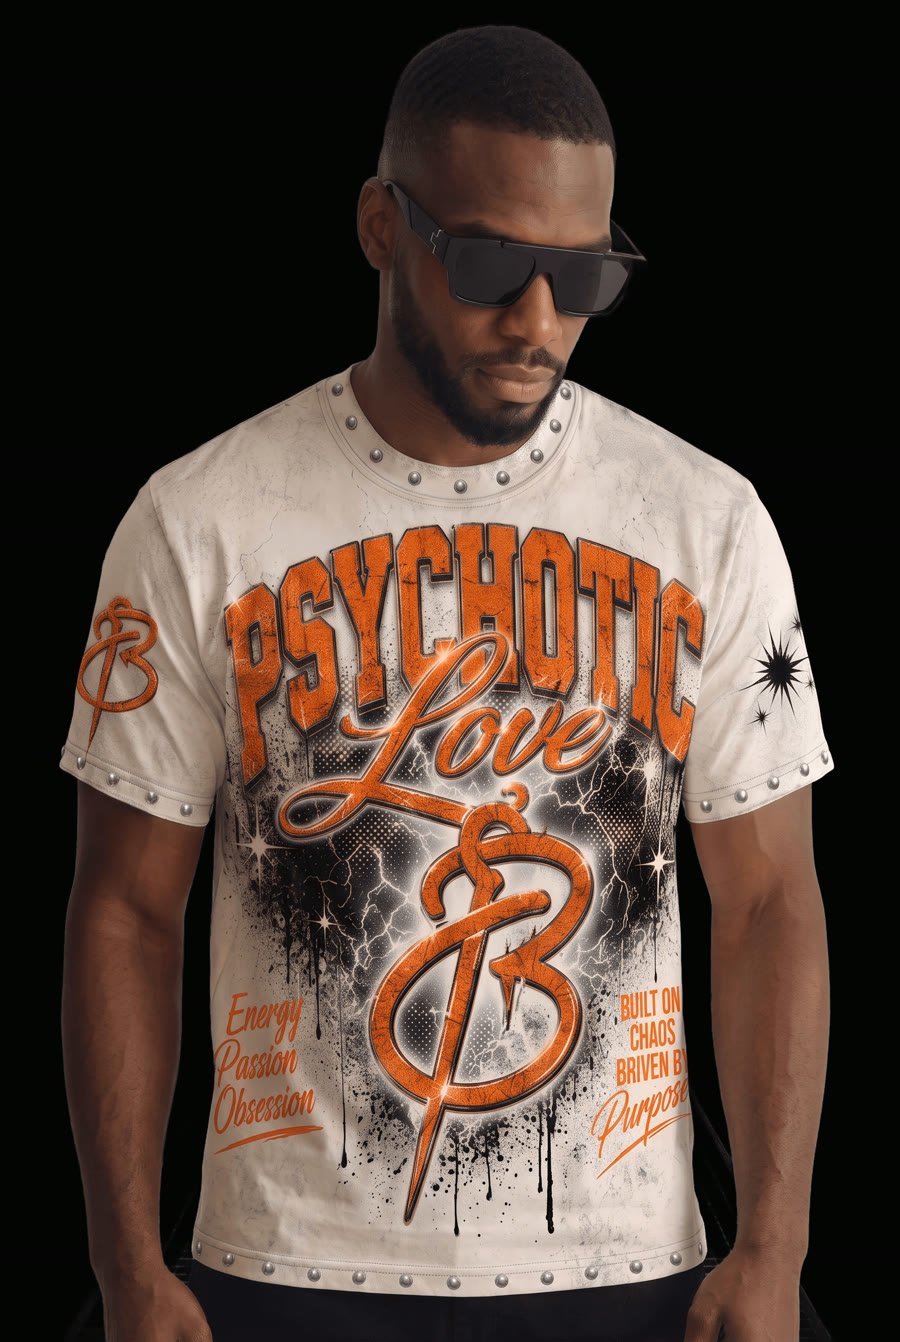
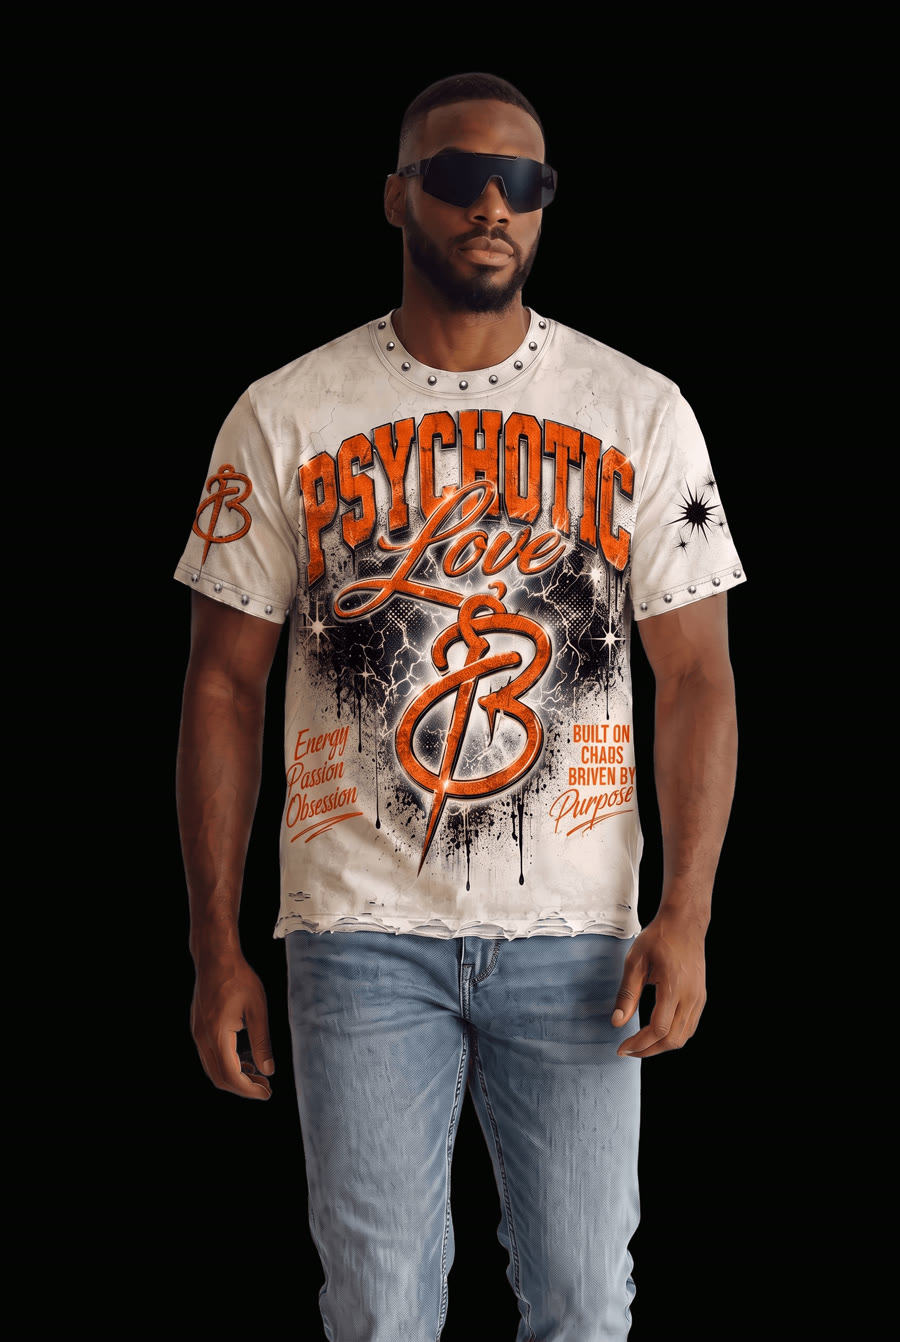
Fix VIP product page theming, hover-crop bug, and swap in clean assets
- Dark product-page theme now triggers from VIP page context (?vip=1),
  not just from a per-product flag, so every Early Arrivals item opens
  its dark variant regardless of whether it's also a regular shop item.
- Fixed the row-1 hover-grow flex rule leaking into the mixed "Coming
  Soon" row, which was overriding its static 2:1 proportions and making
  a portrait model photo crop down to just head/shoulders on hover.
- Replaced the Ember Monogram Tee's product photo with a clean cutout
  from a proper flat-lay shot (was a black-background photo before,
  background removal kept failing on the original studio shots).
- Replaced its VIP model photo with a cleaner full-body shot.

diff --git a/vip.html b/vip.html
@@ -85,7 +85,7 @@
     <div class="vip-new__cluster">
       <div class="vip-new__panel reveal"><img src="assets/img/products/love-hurts-hoodie/front.png" alt="Love Hurts Hoodie"></div>
       <div class="vip-new__panel reveal"><img src="assets/img/products/flame-zip-hoodie/front.png" alt="Flame Sleeve Zip Hoodie"></div>
-      <div class="vip-new__panel reveal"><img src="assets/img/products/ember-monogram-tee/front.jpg" alt="Ember Monogram Tee"></div>
+      <div class="vip-new__panel reveal"><img src="assets/img/products/ember-monogram-tee/front.png" alt="Ember Monogram Tee"></div>
       <div class="vip-new__panel reveal"><img src="assets/img/products/lightning-monogram-tee/front.jpg" alt="Lightning Monogram Tee"></div>
       <div class="vip-new__panel reveal"><img src="assets/img/products/stitched-heart-tee/front.png" alt="Stitched Heart Tee"></div>
     </div>
@@ -99,20 +99,20 @@
   </div>
   <div class="vip-drops__grid">
     <div class="vip-drops__card reveal">
-      <a href="product.html?p=flame-zip-hoodie"><img src="assets/img/vip-models/model-1.jpg" alt="Flame Sleeve Zip Hoodie"></a>
+      <a href="product.html?p=flame-zip-hoodie&vip=1"><img src="assets/img/vip-models/model-1.jpg" alt="Flame Sleeve Zip Hoodie"></a>
     </div>
     <div class="vip-drops__card reveal">
-      <a href="product.html?p=love-hurts-hoodie"><img src="assets/img/vip-models/model-2.jpg" alt="Love Hurts Hoodie"></a>
+      <a href="product.html?p=love-hurts-hoodie&vip=1"><img src="assets/img/vip-models/model-2.jpg" alt="Love Hurts Hoodie"></a>
     </div>
     <div class="vip-drops__card reveal">
-      <a href="product.html?p=chaos-heart-tee"><img src="assets/img/vip-models/model-3.jpg" alt="Chaos Heart Tee"></a>
+      <a href="product.html?p=chaos-heart-tee&vip=1"><img src="assets/img/vip-models/model-3.jpg" alt="Chaos Heart Tee"></a>
     </div>
     <div class="vip-drops__card reveal">
-      <a href="product.html?p=stitched-heart-tee"><img src="assets/img/vip-models/model-5.jpg" alt="Stitched Heart Tee"></a>
+      <a href="product.html?p=stitched-heart-tee&vip=1"><img src="assets/img/vip-models/model-5.jpg" alt="Stitched Heart Tee"></a>
     </div>
   </div>
   <div class="vip-drops__grid vip-drops__grid--mixed">
-    <div class="vip-drops__card vip-drops__card--big reveal"><a href="product.html?p=ember-monogram-tee"><img src="assets/img/vip-models/model-6.jpg" alt="Ember Monogram Tee"></a></div>
+    <div class="vip-drops__card vip-drops__card--big reveal"><a href="product.html?p=ember-monogram-tee&vip=1"><img src="assets/img/vip-models/model-6.jpg" alt="Ember Monogram Tee"></a></div>
     <div class="vip-drops__card vip-drops__card--big reveal"><span class="vip-drops__placeholder">Coming Soon</span></div>
     <div class="vip-drops__card vip-drops__card--small reveal"><span class="vip-drops__placeholder">Coming Soon</span></div>
     <div class="vip-drops__card vip-drops__card--small reveal"><span class="vip-drops__placeholder">Coming Soon</span></div>

diff --git a/assets/css/style.css b/assets/css/style.css
@@ -335,8 +335,13 @@ body.vip-page .dark{ background:transparent; }
   position:relative; height:100%; overflow:hidden; background:#050505;
   flex:1; transition:flex .5s var(--ease);
 }
-.vip-drops__grid:has(.vip-drops__card:hover) .vip-drops__card{ flex:.8; }
-.vip-drops__grid:has(.vip-drops__card:hover) .vip-drops__card:hover{ flex:1.8; }
+/* Scoped to :not(--mixed) — this hover-grow was leaking into the "Coming
+   Soon" mixed row (big/small 2:1:1:2 cards), overriding its static flex
+   ratios and making the hovered card grow much wider than its box height,
+   which made a portrait model photo crop down to just head/shoulders via
+   object-fit:cover. The mixed row keeps its fixed proportions instead. */
+.vip-drops__grid:not(.vip-drops__grid--mixed):has(.vip-drops__card:hover) .vip-drops__card{ flex:.8; }
+.vip-drops__grid:not(.vip-drops__grid--mixed):has(.vip-drops__card:hover) .vip-drops__card:hover{ flex:1.8; }
 .vip-drops__card a{ display:block; width:100%; height:100%; }
 .vip-drops__card img{ width:100%; height:100%; object-fit:cover; object-position:top; display:block; }
 .vip-drops__tag{

diff --git a/product.html b/product.html
@@ -201,7 +201,8 @@
   const slug = new URLSearchParams(location.search).get('p') || Object.keys(window.PL_PRODUCTS)[0];
   const p = window.PL_PRODUCTS[slug] || window.PL_PRODUCTS[Object.keys(window.PL_PRODUCTS)[0]];
   const root = document.getElementById('product-root');
-  if (p.vip) {
+  const vipContext = p.vip || new URLSearchParams(location.search).get('vip') === '1';
+  if (vipContext) {
     document.body.classList.add('vip-product-page');
     root.classList.remove('on-cream');
     document.querySelector('.also-like').classList.remove('on-cream');

diff --git a/assets/js/products.js b/assets/js/products.js
@@ -67,7 +67,7 @@ window.PL_PRODUCTS = {
   },
   'ember-monogram-tee': {
     name: 'Ember Monogram Tee', price: 58, type: 'tee', vip: true,
-    front: 'assets/img/products/ember-monogram-tee/front.jpg',
+    front: 'assets/img/products/ember-monogram-tee/front.png',
     gallery: ['assets/img/vip-models/model-6.jpg'],
     tags: ['front-graphics','logo'],
     desc: 'Vintage cream tee with a scorched lightning monogram and studded neckline. "Energy, Passion, Obsession." VIP early access.'
